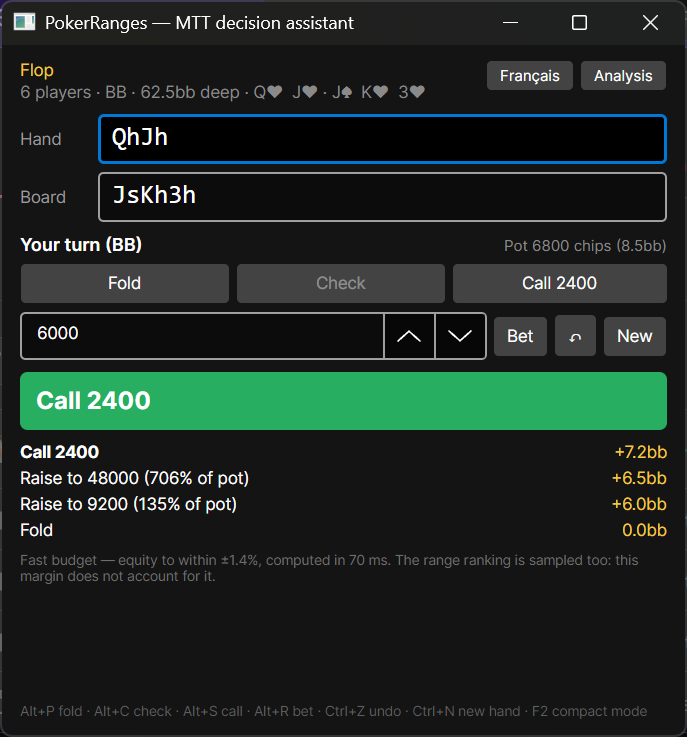
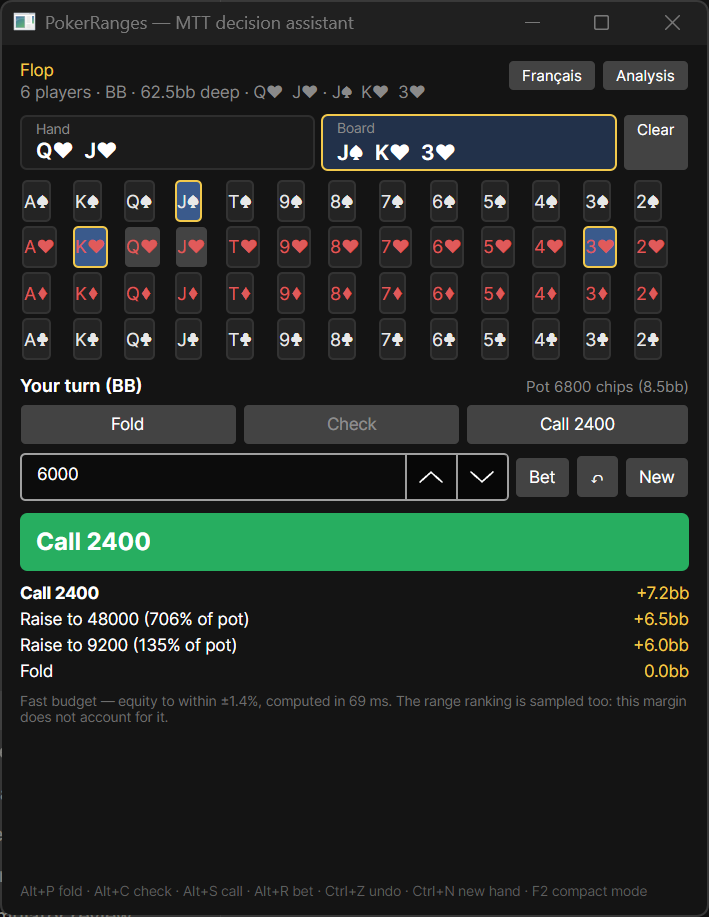
Give compact mode the card selector
Compact mode asked for the cards as text, which is the wrong input at the
table: the mouse is already in hand and the keyboard is not. It now shows the
52-card grid instead, one grid for both pickers — a second would push the
advice out of a window meant to sit beside the table.

Two buttons say which picker the cards land in and show what it already holds.
The grid follows the hand rather than waiting to be pointed somewhere: the
second hole card hands it over to the board, and a new hand takes it back.

Resuming used to leave the two pickers ignorant of each other, since their
notifications are subscribed after the session is restored: a resumed hand
offered its own board cards as hole cards. Harmless while both grids were on
screen with their cards already picked, misleading now that one grid stands
for both, so the pickers are put back in step as the hand is loaded.

diff --git a/src/PokerRanges.App/ViewModels/MainWindowViewModel.cs b/src/PokerRanges.App/ViewModels/MainWindowViewModel.cs
@@ -60,6 +60,14 @@ public sealed partial class MainWindowViewModel : ObservableObject
     [ObservableProperty]
     private bool _isHeadToHead;
 
+    /// <summary>
+    /// Which of the two pickers the compact grid is filling. Compact mode shows one grid and not
+    /// two — a second one would push the advice out of a window meant to sit beside the table — so
+    /// the grid has to be told what it is filling.
+    /// </summary>
+    [ObservableProperty]
+    private bool _isBoardTarget;
+
     [ObservableProperty]
     private string _turnLabel = string.Empty;
 
@@ -139,6 +147,9 @@ public sealed partial class MainWindowViewModel : ObservableObject
 
     public CardPickerViewModel Board { get; } = new(5, () => UiText.Current.EmptyBoard);
 
+    /// <summary>The picker the single compact grid is pointed at.</summary>
+    public CardPickerViewModel ActivePicker => IsBoardTarget ? Board : Hero;
+
     public RangeMatrixViewModel Matrix => _advice.Matrix;
 
     public RecommendationViewModel Recommendation => _advice.Recommendation;
@@ -178,7 +189,7 @@ public sealed partial class MainWindowViewModel : ObservableObject
     {
         Language.Use(Language.IsFrench ? AppLanguage.English : AppLanguage.French);
 
-        _logger.LogInformation("Langue de l'interface : {Language}", Language.Current);
+        _logger.LogInformation("Interface language: {Language}", Language.Current);
 
         RefreshLabels();
         ScheduleRefresh();
@@ -217,6 +228,25 @@ public sealed partial class MainWindowViewModel : ObservableObject
 
         HandState state = BuildState();
         HeadToHead.SeedFrom(state, _potEngine.Analyse(state));
+    }
+
+    [RelayCommand]
+    public void TargetHand()
+    {
+        IsBoardTarget = false;
+    }
+
+    [RelayCommand]
+    public void TargetBoard()
+    {
+        IsBoardTarget = true;
+    }
+
+    /// <summary>Empties the picker the compact grid is filling, and only that one.</summary>
+    [RelayCommand]
+    public void ClearActivePicker()
+    {
+        ActivePicker.Clear();
     }
 
     [RelayCommand]
@@ -276,6 +306,7 @@ public sealed partial class MainWindowViewModel : ObservableObject
         History.Clear();
         Hero.Clear();
         Board.Clear();
+        IsBoardTarget = false;
         ScheduleRefresh();
     }
 
@@ -313,8 +344,13 @@ public sealed partial class MainWindowViewModel : ObservableObject
         OnPropertyChanged(nameof(Budget));
         OnPropertyChanged(nameof(ShowAnalysis));
         OnPropertyChanged(nameof(ShowHeadToHead));
-        _logger.LogInformation("Bascule en mode {Mode}", value ? "compact" : "analyse");
+        _logger.LogInformation("Switched to {Mode} mode", value ? "compact" : "analysis");
         ScheduleRefresh();
+    }
+
+    partial void OnIsBoardTargetChanged(bool value)
+    {
+        OnPropertyChanged(nameof(ActivePicker));
     }
 
     private void OnChartsChanged(object? sender, EventArgs args)
@@ -340,6 +376,13 @@ public sealed partial class MainWindowViewModel : ObservableObject
         if (args.PropertyName != nameof(CardPickerViewModel.Selection))
         {
             return;
+        }
+
+        // Once the hand is complete the hero picker has nothing left to take, so the compact grid
+        // moves itself on to the board: entering a hand is then one uninterrupted run of clicks.
+        if (Hero.Selection.Count == Hero.Capacity)
+        {
+            IsBoardTarget = true;
         }
 
         Board.SetUnavailable([.. Hero.Selection]);
@@ -615,6 +658,14 @@ public sealed partial class MainWindowViewModel : ObservableObject
         Board.Restore([]);
         Hero.Restore(hand.HeroCards is HoleCards cards ? [cards.First, cards.Second] : []);
         Board.Restore(hand.Board);
+
+        // What each picker forbids the other is normally recomputed by their notifications, which
+        // are not yet subscribed while the session is being restored: a hand resumed at startup
+        // would otherwise offer its own board cards as hole cards. The compact grid, pointed at
+        // the picker still to be filled, follows the same reasoning.
+        Board.SetUnavailable([.. Hero.Selection]);
+        Hero.SetUnavailable([.. Board.Selection]);
+        IsBoardTarget = Hero.Selection.Count == Hero.Capacity;
 
         _actions.Clear();
         History.Clear();

diff --git a/tests/PokerRanges.App.Tests/MainWindowViewModelTests.cs b/tests/PokerRanges.App.Tests/MainWindowViewModelTests.cs
@@ -351,6 +351,63 @@ public sealed class MainWindowViewModelTests : IDisposable
     }
 
     /// <summary>
+    /// Compact mode has room for one grid, not two. What makes a single grid workable is that it
+    /// follows the hand being entered instead of waiting to be pointed somewhere: the second hole
+    /// card hands it over to the board.
+    /// </summary>
+    [Fact]
+    public async Task TheCompactGridStartsOnTheHandAndMovesToTheBoardOnItsOwn()
+    {
+        MainWindowViewModel viewModel = await BuildAsync();
+
+        viewModel.IsBoardTarget.ShouldBeFalse();
+        viewModel.ActivePicker.ShouldBeSameAs(viewModel.Hero);
+
+        await SelectAsync(viewModel, viewModel.Hero, "Ah", "Qd");
+
+        viewModel.IsBoardTarget.ShouldBeTrue();
+        viewModel.ActivePicker.ShouldBeSameAs(viewModel.Board);
+    }
+
+    [Fact]
+    public async Task TheCompactGridGoesBackToTheHandForANewHand()
+    {
+        MainWindowViewModel viewModel = await BuildAsync();
+        await ReachTheFlopAsync(viewModel, "Kh9d", "Ks8d3c");
+
+        viewModel.IsBoardTarget.ShouldBeTrue();
+
+        viewModel.NewHand();
+        await viewModel.RefreshNowAsync();
+
+        viewModel.IsBoardTarget.ShouldBeFalse();
+        viewModel.ActivePicker.ShouldBeSameAs(viewModel.Hero);
+    }
+
+    /// <summary>
+    /// The single Clear button of compact mode empties what the grid is filling, and nothing else:
+    /// fixing a misread board must not cost the hole cards, which were right.
+    /// </summary>
+    [Fact]
+    public async Task ClearingInCompactModeEmptiesOnlyTheTargetedPicker()
+    {
+        MainWindowViewModel viewModel = await BuildAsync();
+        await ReachTheFlopAsync(viewModel, "Kh9d", "Ks8d3c");
+
+        viewModel.ClearActivePicker();
+        await viewModel.RefreshNowAsync();
+
+        viewModel.Board.Selection.ShouldBeEmpty();
+        viewModel.Hero.AsHoleCards.ShouldBe(HoleCards.Parse("Kh9d"));
+
+        viewModel.TargetHand();
+        viewModel.ClearActivePicker();
+        await viewModel.RefreshNowAsync();
+
+        viewModel.Hero.Selection.ShouldBeEmpty();
+    }
+
+    /// <summary>
     /// The acceptance criterion: a whole hand can be entered from the keyboard — cards as text,
     /// actions as shortcuts — without ever aiming at a cell of the 52-card grid.
     /// </summary>
@@ -419,6 +476,30 @@ public sealed class MainWindowViewModelTests : IDisposable
         after.History.Count.ShouldBe(before.History.Count);
         after.StreetLabel.ShouldBe("Flop");
         after.Table.PlayerCount.ShouldBe(6);
+    }
+
+    /// <summary>
+    /// Resuming happens before the two pickers start listening to each other, so what each one
+    /// denies the other has to be put back by hand: otherwise the resumed hand offers its own
+    /// board cards as hole cards, and the compact grid opens on a hand that is already complete.
+    /// </summary>
+    [Fact]
+    public async Task AResumedHandComesBackWithItsCardsTakenAndTheGridOnTheBoard()
+    {
+        SessionStoreOptions session = NewSessionOptions();
+
+        MainWindowViewModel before = await BuildAsync(session);
+        await ReachTheFlopAsync(before, "Kh9d", "Ks8d3c");
+        before.PersistNow();
+
+        MainWindowViewModel after = await BuildAsync(session);
+
+        Option(after.Hero, "Ks").IsAvailable.ShouldBeFalse();
+        Option(after.Board, "Kh").IsAvailable.ShouldBeFalse();
+        Option(after.Hero, "Qc").IsAvailable.ShouldBeTrue();
+
+        after.IsBoardTarget.ShouldBeTrue();
+        after.ActivePicker.ShouldBeSameAs(after.Board);
     }
 
     /// <summary>

diff --git a/src/PokerRanges.App/Views/CompactPanel.axaml.cs b/src/PokerRanges.App/Views/CompactPanel.axaml.cs
@@ -1,46 +1,16 @@
 using Avalonia.Controls;
-using Avalonia.Input;
 
 namespace PokerRanges.App.Views;
 
 /// <summary>
-/// The reduced layout: the entry fields and the recommendation, nothing else. Enter moves from one
-/// field to the next so a whole hand can be typed without leaving the keyboard.
+/// The reduced layout: the card grid, the actions and the recommendation, nothing else. Entering a
+/// hand is a run of clicks — no typing, no aiming at a field — because at the table the mouse is
+/// already in hand and the keyboard is not.
 /// </summary>
 public sealed partial class CompactPanel : UserControl
 {
     public CompactPanel()
     {
         InitializeComponent();
-
-        HeroEntry.KeyDown += OnEntryKeyDown;
-        BoardEntry.KeyDown += OnEntryKeyDown;
-    }
-
-    /// <summary>Hands focus back to the entry field, called when compact mode opens.</summary>
-    public void FocusEntry()
-    {
-        GiveFocusTo(HeroEntry);
-    }
-
-    private void OnEntryKeyDown(object? sender, KeyEventArgs args)
-    {
-        if (args.Key != Key.Enter)
-        {
-            return;
-        }
-
-        GiveFocusTo(ReferenceEquals(sender, HeroEntry) ? BoardEntry : HeroEntry);
-        args.Handled = true;
-    }
-
-    /// <summary>
-    /// Caret at the end of the text rather than a full selection: switching to compact mid-hand
-    /// must not leave the hand already typed one keystroke away from being wiped.
-    /// </summary>
-    private static void GiveFocusTo(TextBox entry)
-    {
-        entry.Focus();
-        entry.CaretIndex = entry.Text?.Length ?? 0;
     }
 }

diff --git a/src/PokerRanges.App/Views/MainWindow.axaml.cs b/src/PokerRanges.App/Views/MainWindow.axaml.cs
@@ -1,6 +1,5 @@
 using System.ComponentModel;
 using Avalonia.Controls;
-using Avalonia.Threading;
 using PokerRanges.App.ViewModels;
 
 namespace PokerRanges.App.Views;
@@ -11,10 +10,12 @@ namespace PokerRanges.App.Views;
 /// </summary>
 public sealed partial class MainWindow : Window
 {
+    // The card grid sets the floor: thirteen columns need their width, four rows their height, and
+    // below that the advice is what gets squeezed out.
     private const double CompactWidth = 470;
-    private const double CompactHeight = 560;
-    private const double CompactMinWidth = 380;
-    private const double CompactMinHeight = 460;
+    private const double CompactHeight = 580;
+    private const double CompactMinWidth = 420;
+    private const double CompactMinHeight = 500;
     private const double AnalysisMinWidth = 1120;
     private const double AnalysisMinHeight = 760;
 
@@ -65,8 +66,6 @@ public sealed partial class MainWindow : Window
             MinHeight = CompactMinHeight;
             Width = CompactWidth;
             Height = CompactHeight;
-
-            Dispatcher.UIThread.Post(Compact.FocusEntry, DispatcherPriority.Input);
             return;
         }
 

diff --git a/src/PokerRanges.App/Views/CardGridView.axaml.cs b/src/PokerRanges.App/Views/CardGridView.axaml.cs
@@ -1,0 +1,15 @@
+using Avalonia.Controls;
+
+namespace PokerRanges.App.Views;
+
+/// <summary>
+/// The 52 cards, four rows of thirteen. Kept apart from <see cref="CardPickerPanel"/> because
+/// compact mode shows the grid alone, pointed at whichever picker is being filled.
+/// </summary>
+public sealed partial class CardGridView : UserControl
+{
+    public CardGridView()
+    {
+        InitializeComponent();
+    }
+}

diff --git a/README.md b/README.md
@@ -39,15 +39,16 @@ credited with, the expectation of every action, and the reasoning that got there
   calling and folding. Each side is entered by clicking the grid, typing the range, or dragging a
   strongest-X% slider; opening it copies the hand in progress across.
 - **Tables from 2 to 8 players**, uneven stacks, regular antes or big blind antes.
-- **Compact mode** — a reduced, always-on-top window with cards typed from the keyboard
-  (`askd`, `ks8d3c`), designed to answer in under a second while you are playing.
+- **Compact mode** — a reduced, always-on-top window where the cards are clicked on a single
+  52-card grid that follows the hand: it fills your two cards, then hands itself over to the board.
+  Designed to answer in under a second while you are playing.
 - **Hand journal** — an entry keeps the whole hand, not a summary: reload it and replay the decision
   with a different profile or a different size.
 - **Automatic resume** — the hand in progress and the settings survive shutdown.
 
-![Compact mode: a small always-on-top window, two card fields, and the expectation of each action](docs/screenshots/compact.png)
+![Compact mode: a small always-on-top window, one card grid, and the expectation of each action](docs/screenshots/compact.png)
 
-*Compact mode, the same hand: cards typed instead of clicked, always on top, and a reduced
+*Compact mode, the same hand: one grid for the hand then the board, always on top, and a reduced
 calculation budget so the answer arrives while it is still your turn.*
 
 ---
